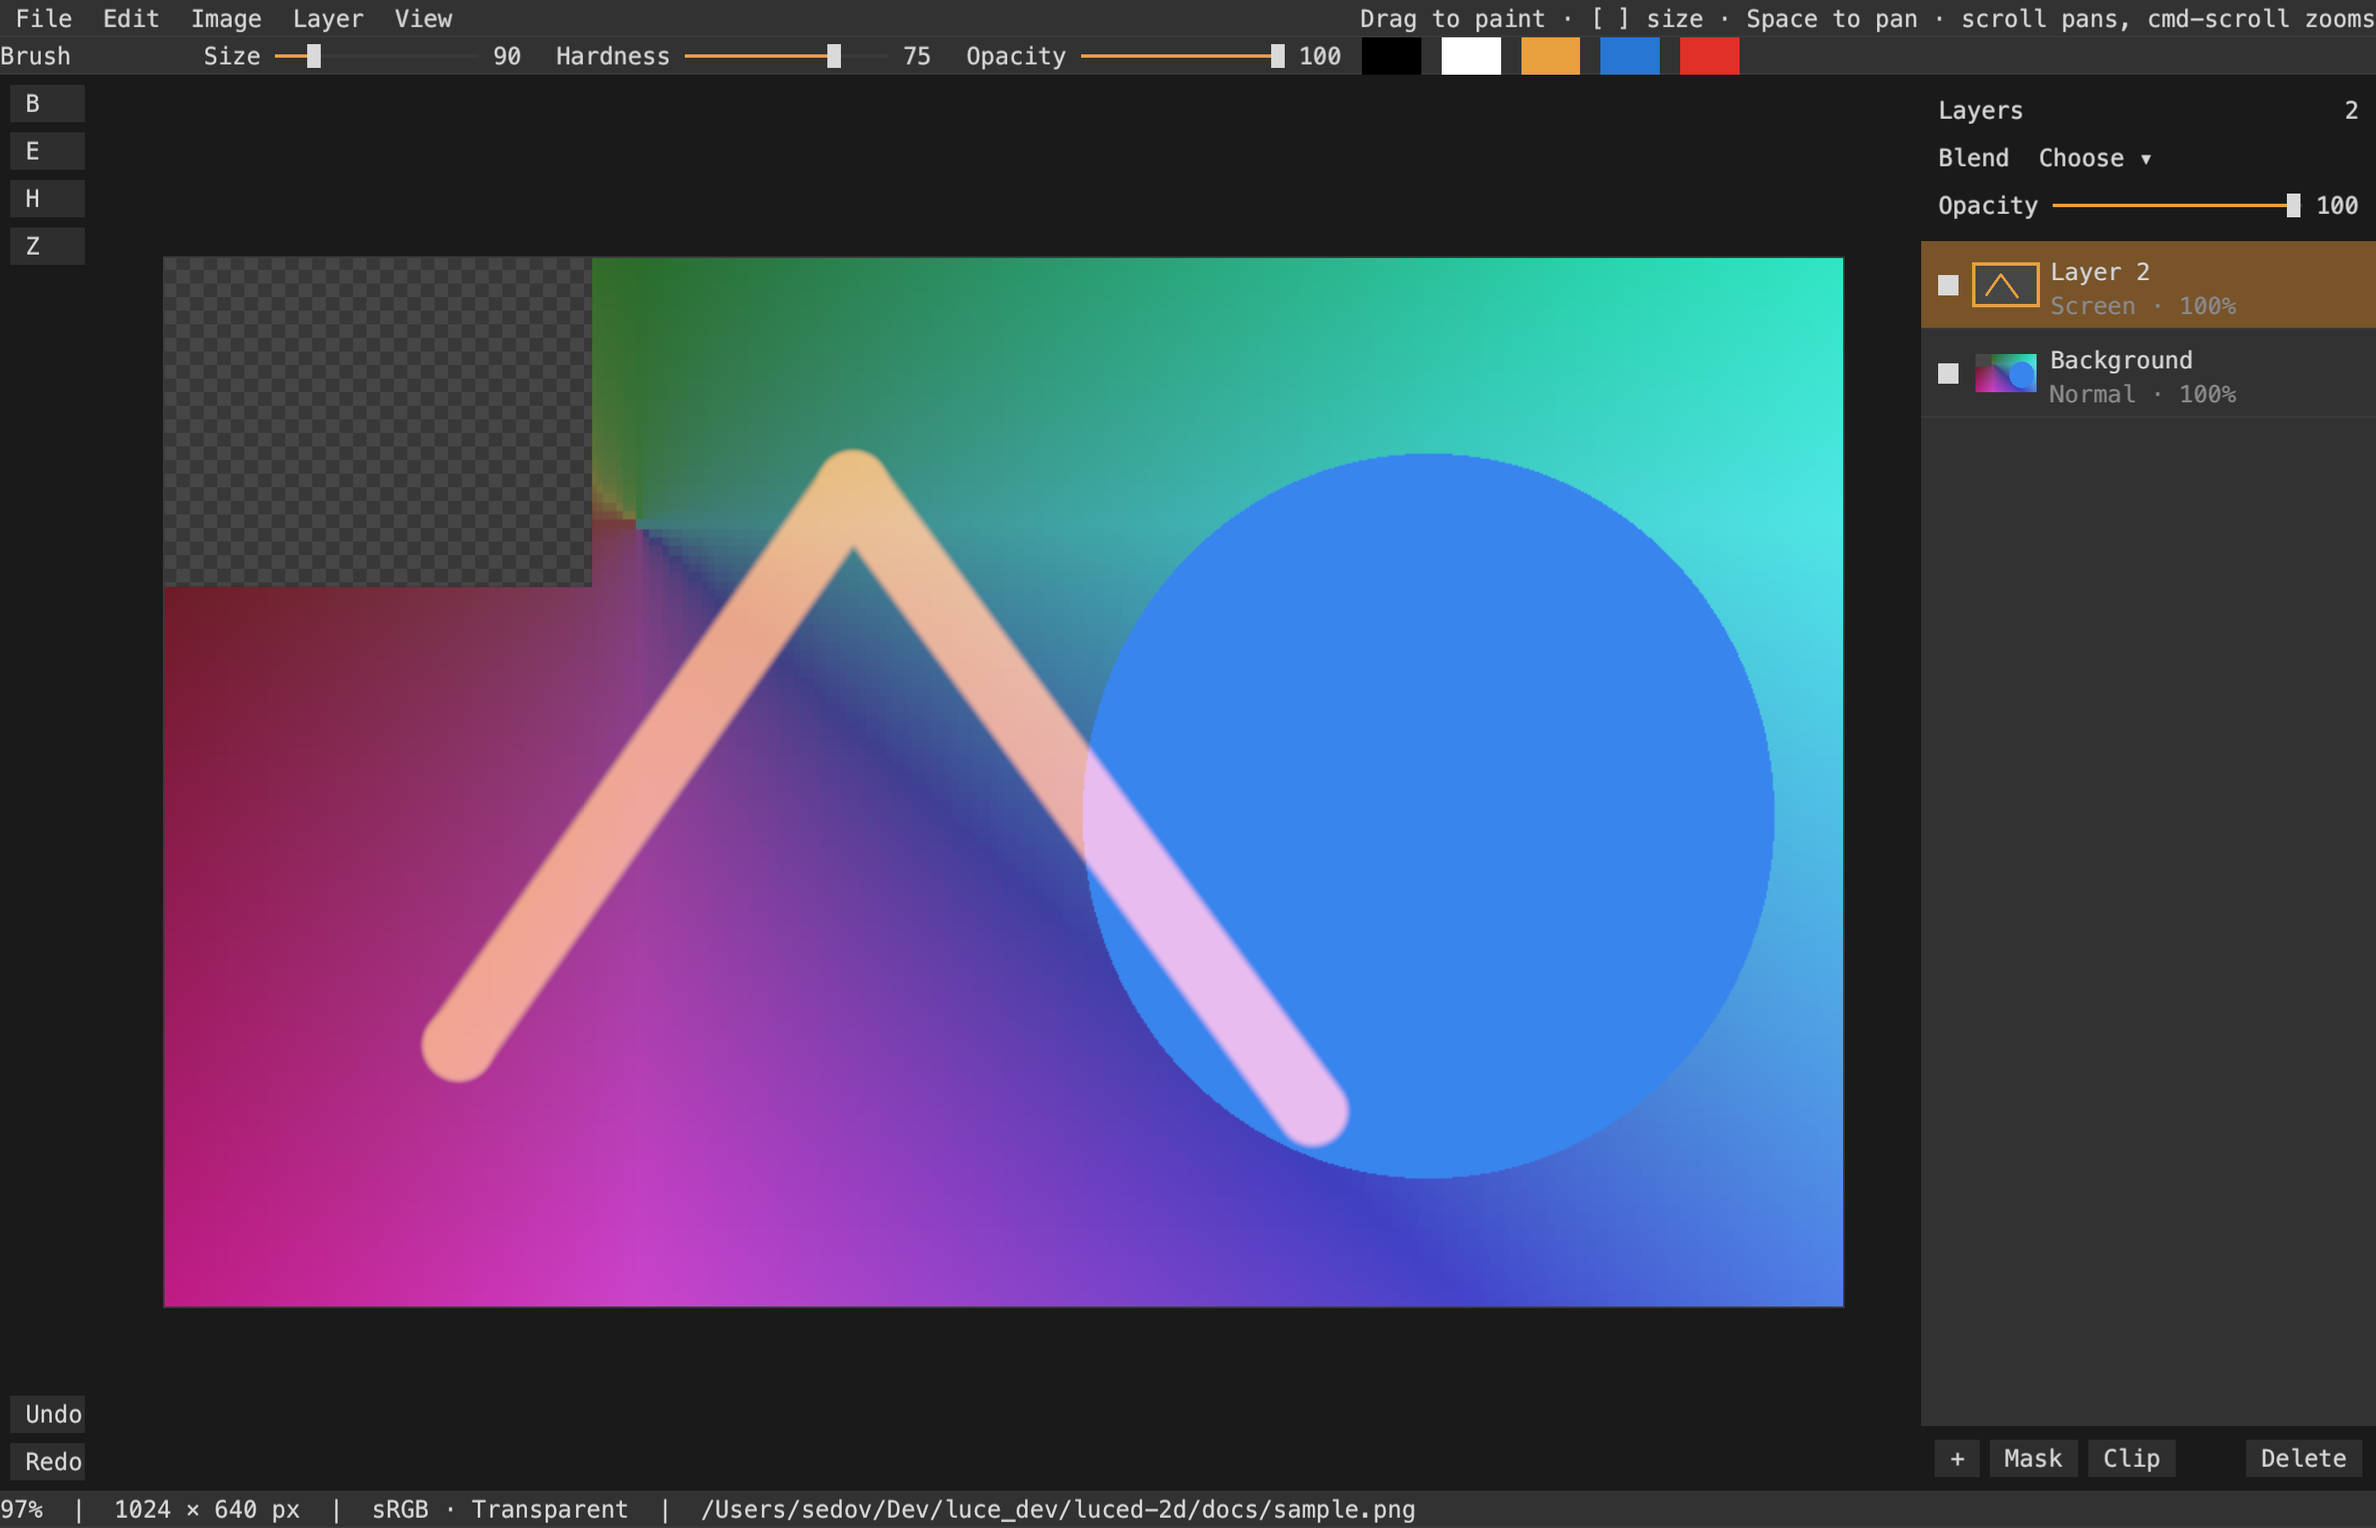
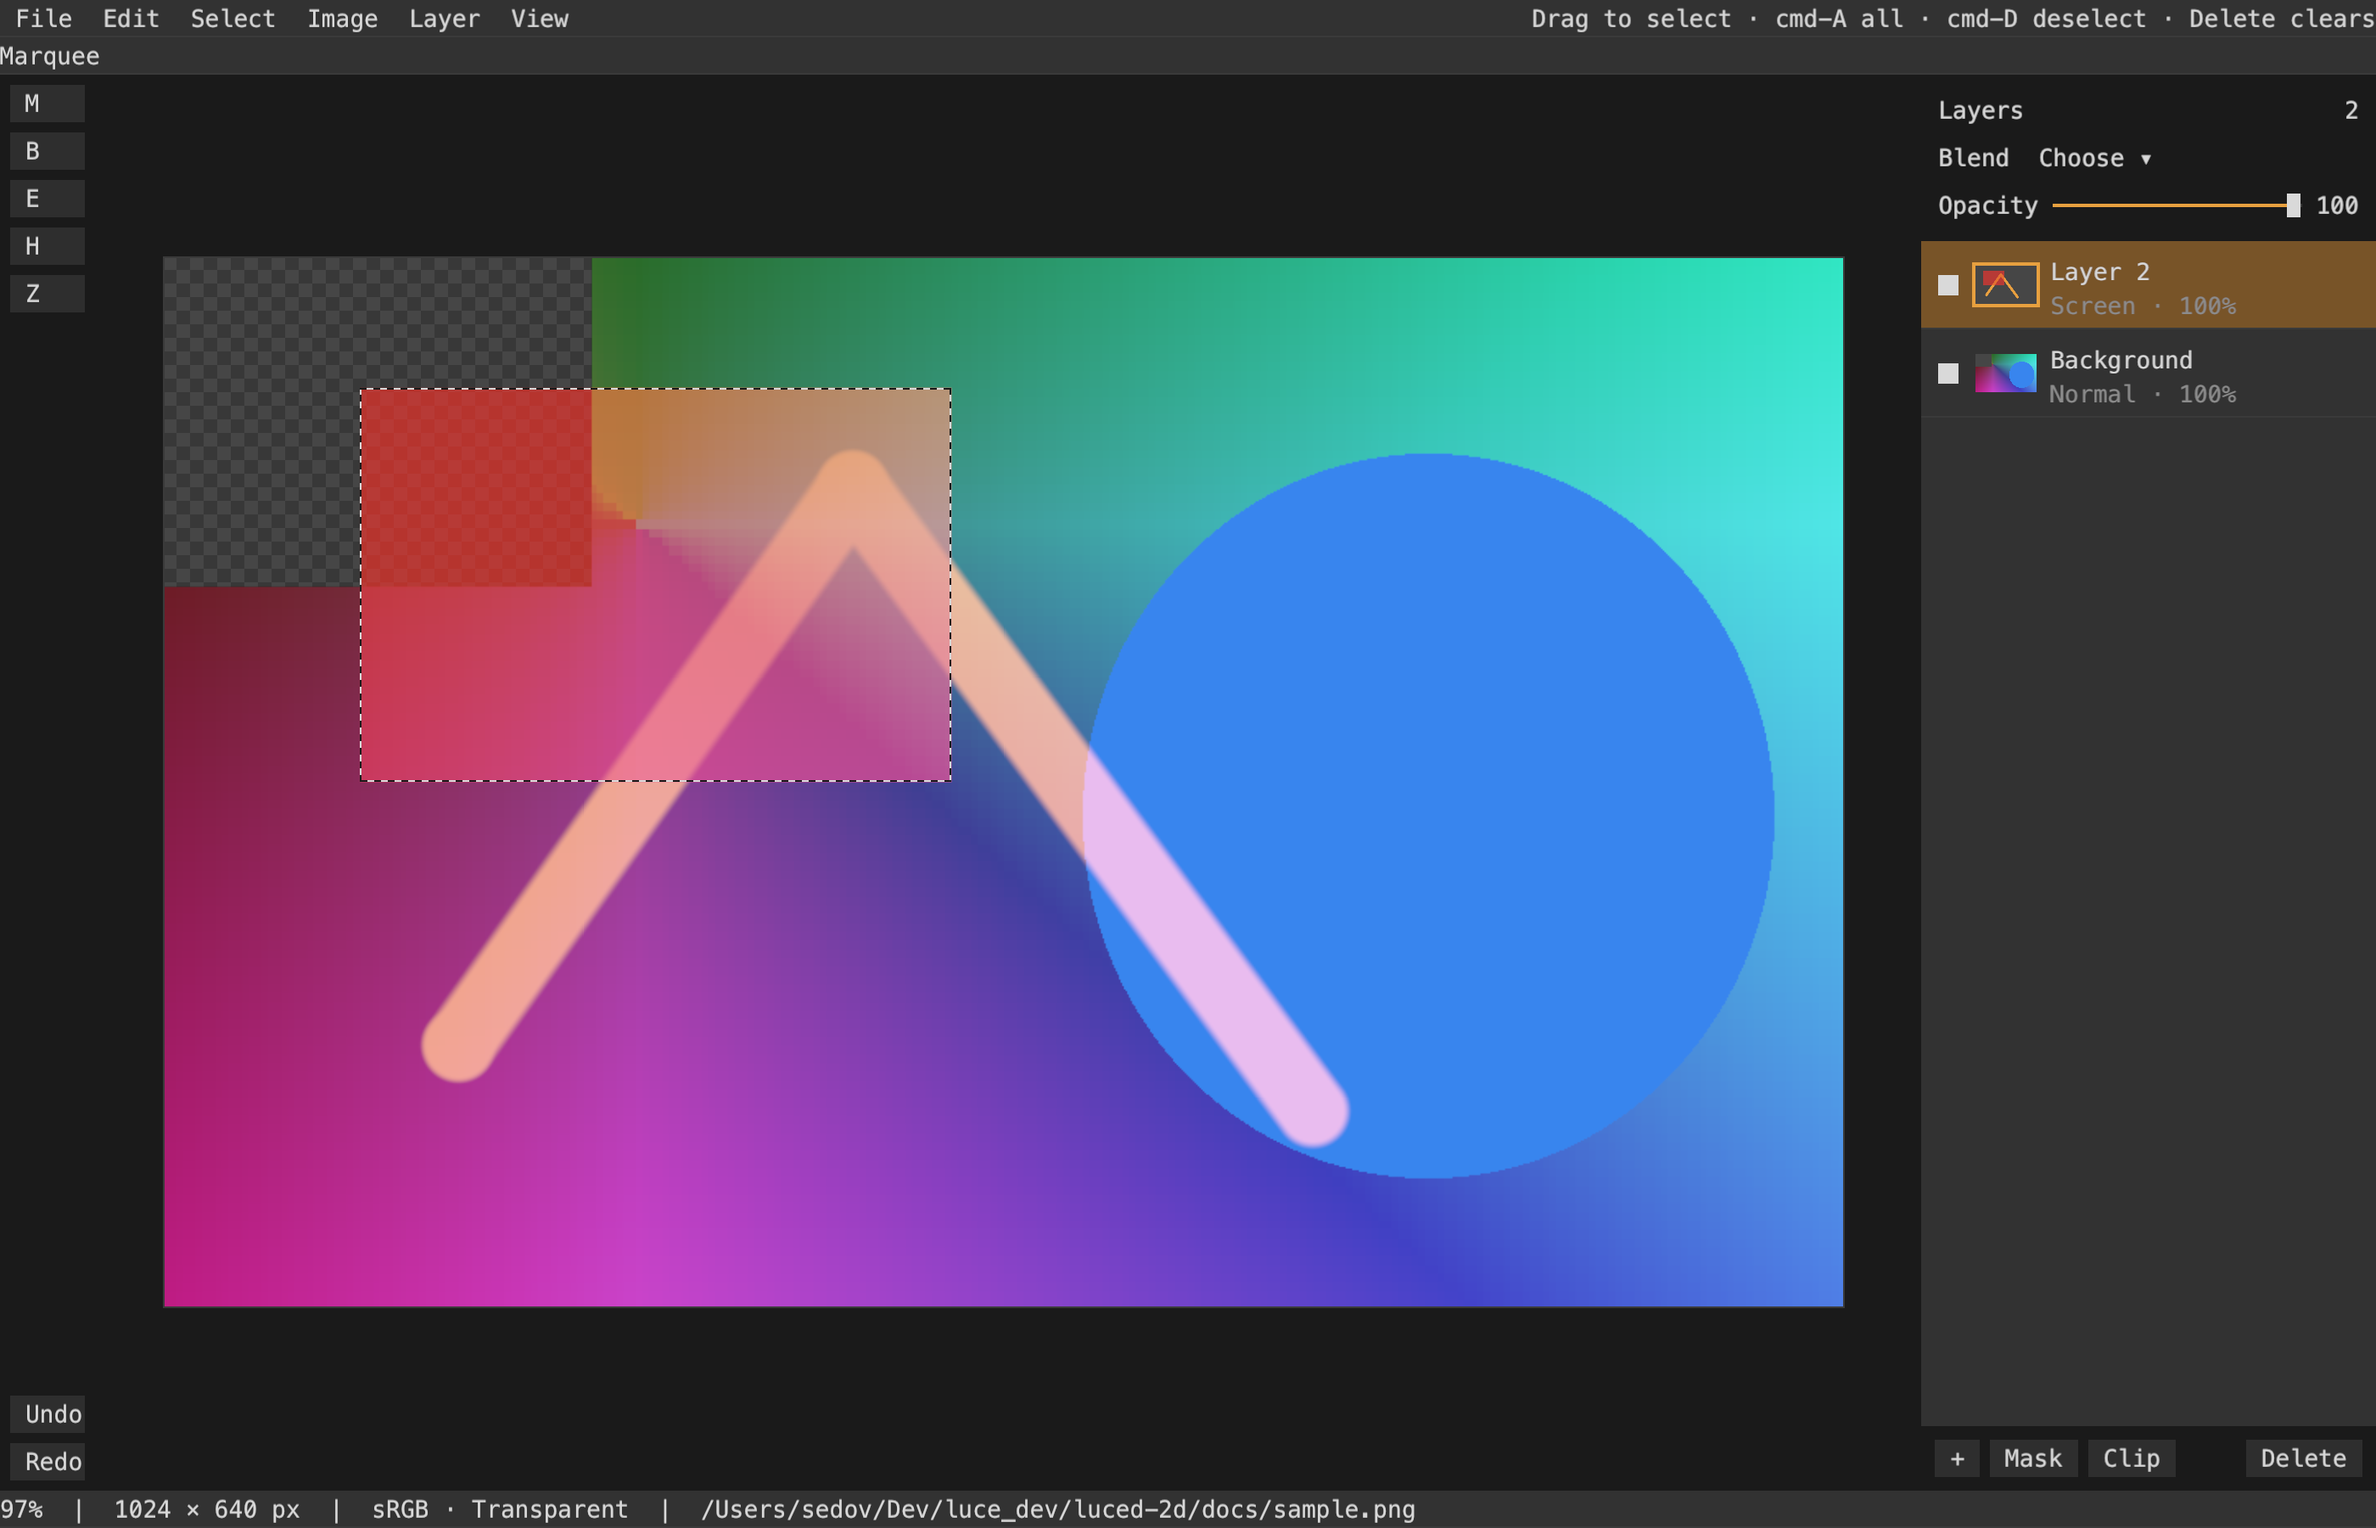
Marquee selection, fill and clear, marching ants
Claude-Session: https://claude.ai/code/session_01KSvf935cywg8wGYHPcyZf9

diff --git a/tools/preview.py b/tools/preview.py
@@ -93,6 +93,11 @@ pub func main(arguments: list[str]) -> int!:
             editor.workspace.select(0)
             editor.workspace.adjust(1, [0.5, 0.3, 0.0])
             editor.workspace.select(1)
+            editor.workspace.canvas.select(120, 80, 360, 240)
+            editor.workspace.set_color(0.75, 0.03, 0.02)
+            editor.workspace.opacity = 0.6
+            editor.workspace.fill_selection(false)
+            editor.workspace.choose_tool("marquee")
             editor.panels.refresh()
         if captured:
             editor.app.stop()

diff --git a/README.md b/README.md
@@ -14,6 +14,8 @@ the order of work are in [docs/DESIGN.md](docs/DESIGN.md).
 - Layers with names, visibility, opacity and all 26 Photoshop blend modes,
   composed on the GPU with a cache
   that re-renders only the tiles an edit touches.
+- Rectangular marquee (`M`, cmd-A, cmd-D) with marching ants; painting and
+  fills stay inside it; Fill (alt-Delete) and Clear (Delete).
 - Brush and eraser (`B`, `E`, `[` `]` for size) painted on the GPU with soft
   edges and no dab artefacts; undo and redo of strokes.
 - Pan with scroll or space-drag, zoom about the pointer with cmd/ctrl-scroll,
